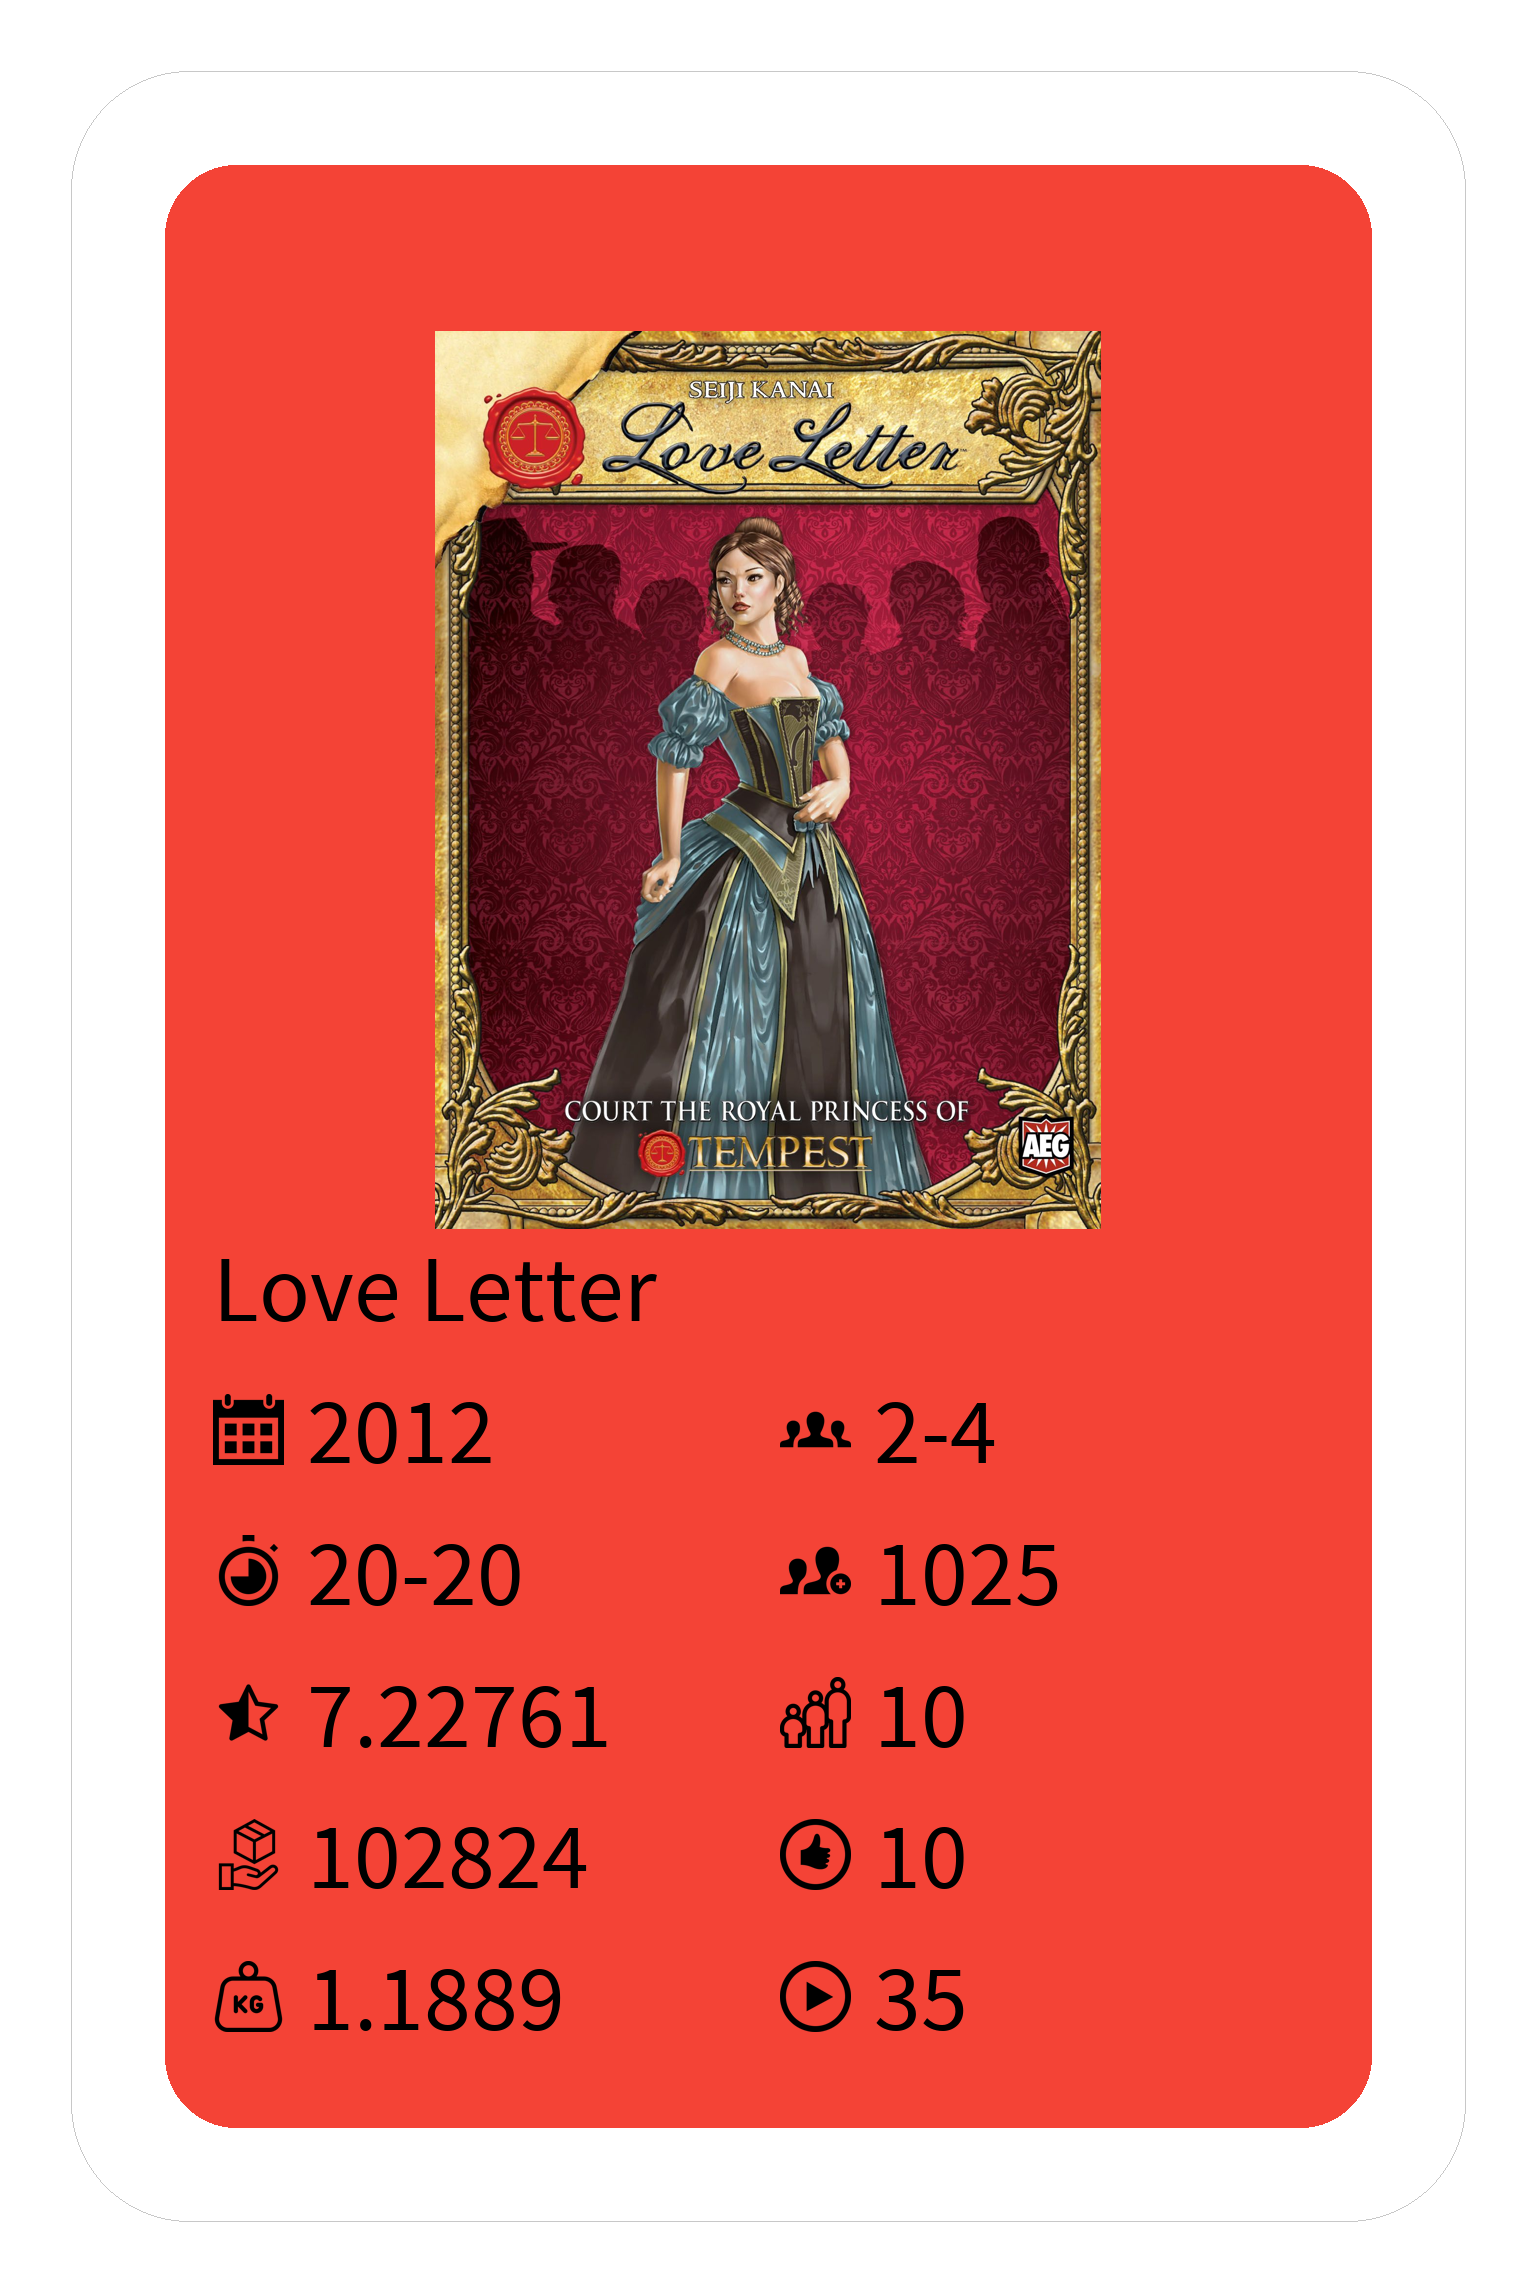
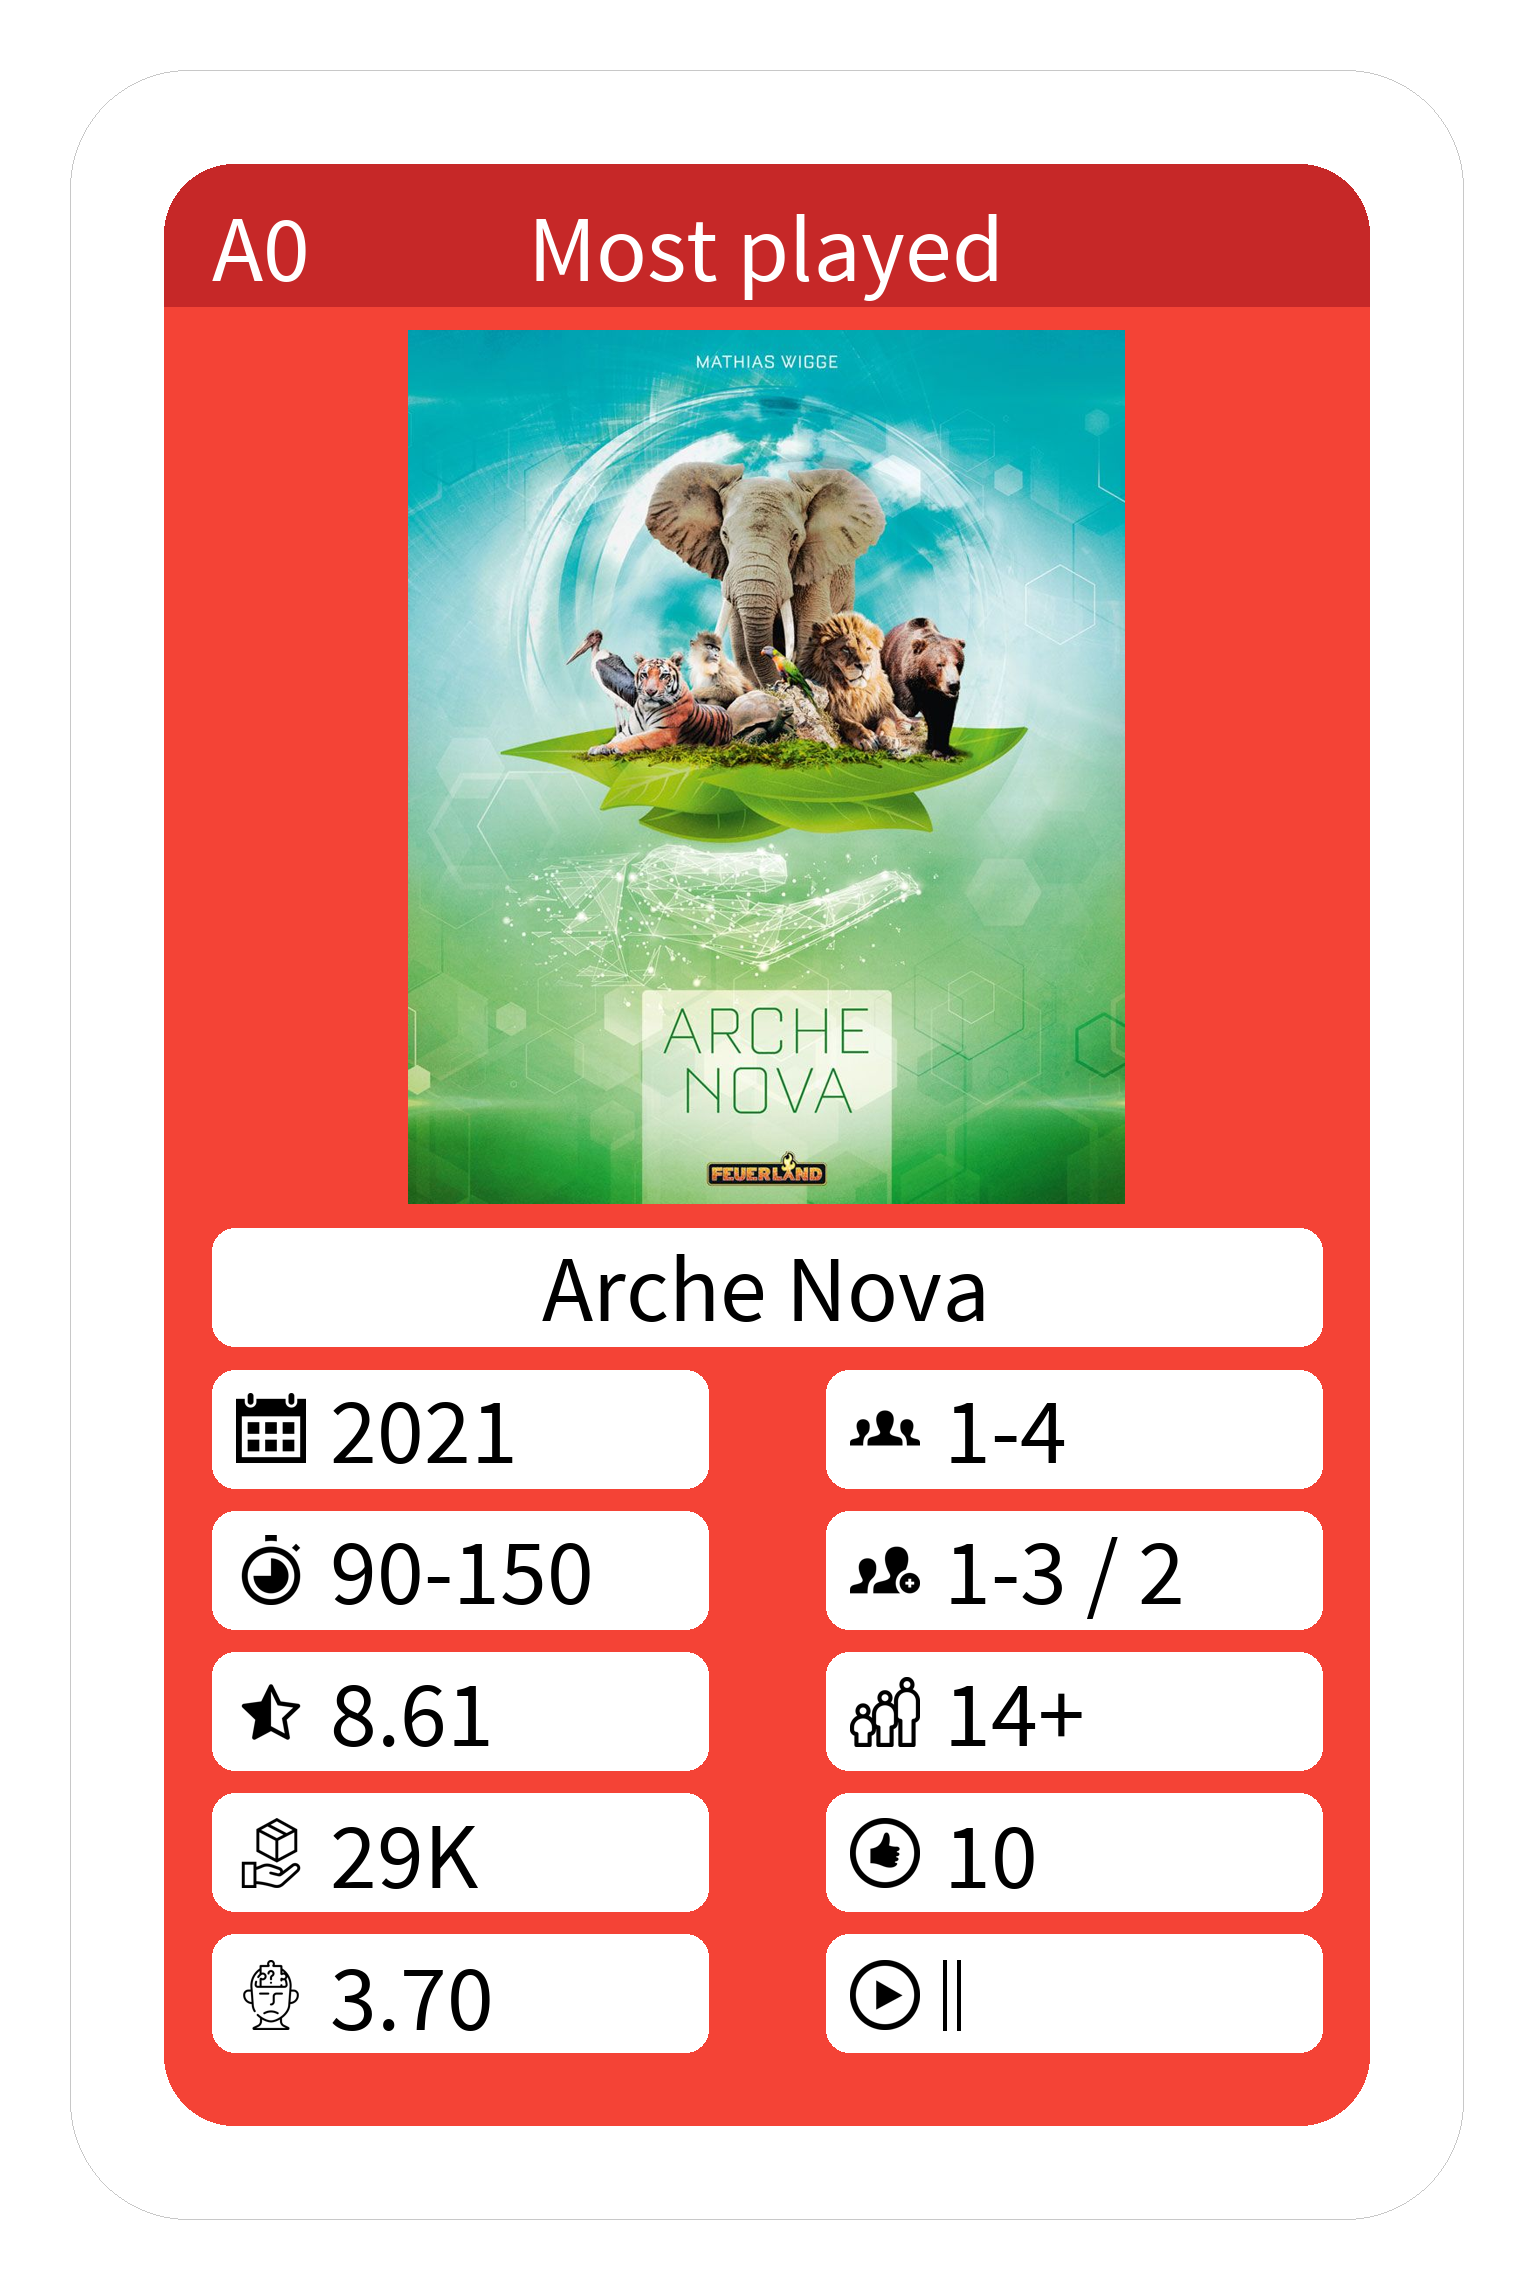
Add different complexity image and update sample image

diff --git a/2_generate.py b/2_generate.py
@@ -17,7 +17,7 @@ ICONS = [
     ('iconmonstr-time-13-240.png', 10, 65),
     ('iconmonstr-star-half-lined-240.png', 10, 71),
     ('iconmonstr-product-14-240.png', 10, 77),
-    ('flaticon-weight.png', 10, 83),
+    ('flaticon-problem.png', 10, 83),
 
     ('iconmonstr-user-29-240.png', 36, 59),
     ('iconmonstr-user-23-240.png', 36, 65),

diff --git a/README.md b/README.md
@@ -20,6 +20,7 @@ Icons used:
 
  - <a href="https://www.flaticon.com/free-icons/age-group" title="age group icons">Age group icons created by Freepik - Flaticon</a>
  - <a href="https://www.flaticon.com/free-icons/weight" title="weight icons">Weight icons created by Freepik - Flaticon</a>
+ - <a href="https://www.flaticon.com/free-icons/complex" title="complex icons">Complex icons created by Freepik - Flaticon</a>
  - https://iconmonstr.com/calendar-4-png
  - https://iconmonstr.com/product-14-png
  - https://iconmonstr.com/star-half-lined-png
